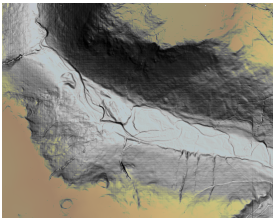
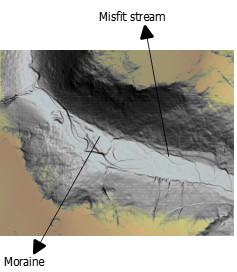
test13

diff --git a/index.html b/index.html
@@ -74,6 +74,7 @@
 			<p> 1. Navigate to sites <br> 2. Information about the sites will be shown when in close proximity <br> 3. Collect all the sites to win!</p> 
 		</div> 
 		
+	
 		
 		<script>
 			
@@ -227,7 +228,7 @@
 			L.geoJSON(inner_geofence4).addTo(map); 										// Add inner buffer to map 
 			L.geoJSON(outer_geofence4, {style: myStyle}).addTo(map); 				// Add outer buffer to map using style defined above 
 			// Create content for Glen Rosa
-			var gr_popupContent = ("<b> Well done! You found Glen Rosa!</b> <br> <b> Dominant rock type: </b> Granite </p> <b> Periods: </b> Tertiary (60 million years ago), Quaternary (2.5 million years ago) </b> <img src= 'GlenRosaHillshade.PNG'/><p> The diagram shows Glen Rosa facing North West</p> <img src='GlenRosaCrossSection.png' /> <p> This cross section demonstrates the U shaped valley perfectly </p> <img src='GlenRosaHydrology.PNG'/>")   //Add content using HTML tags 
+			var gr_popupContent = ("<b> Well done! You found Glen Rosa!</b> <br> <b> Dominant rock type: </b> Granite </p> <b> Periods: </b> Tertiary (60 million years ago), Quaternary (2.5 million years ago) </p> <P> Glen Rosa (Gleann Rusaidh) provides an excellent example of glacial activity on Arran. It also hosts hydrological features in Glen Rosa Water and Garbh Allt. </p> <img src= 'GlenRosaHillshade.PNG'/><p> The diagram shows Glen Rosa facing North, the direction from which a glacier moved carving the valley as it went. An interesting feature here is Garbh Allt, a hanging valley (labelled) to the east. This was formed as a smaller glacier eroded its valley slower than the main glacier in Glen Rosa. The result is a valley suspended above the glen.</p> <img src='GlenRosaCrossSection.png' /> <p> This cross section, taken from the above map,demonstrates the U shaped valley and its height.</p> <img src='GlenRosaHydrology.PNG'/> <p> The mound labelled as moraine marks an accumulation of debris carried and deposited by the glacier during its retreat. The moraine here provides evidence of two re/advances of the glacier.</p> <p> The river seem running through the valley is known as a misfit stream. These are rivers deemed too small to have carved the valley through which they flow and formed after glaciation</p>")   //Add content using HTML tags 
 			var gr_popup = gr.bindPopup(gr_popupContent, { 
 				maxWidth: 300,				// Makes sure popups accomadate photos 
 				maxHeight: 400
